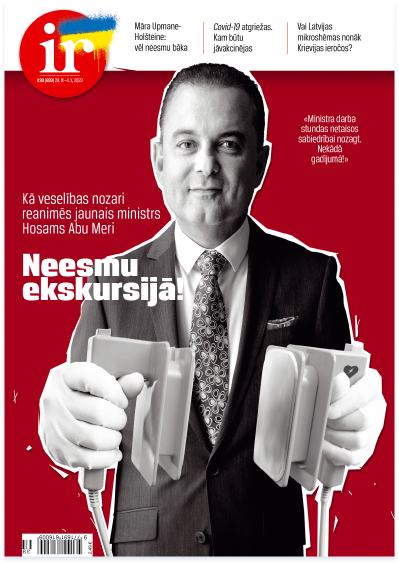
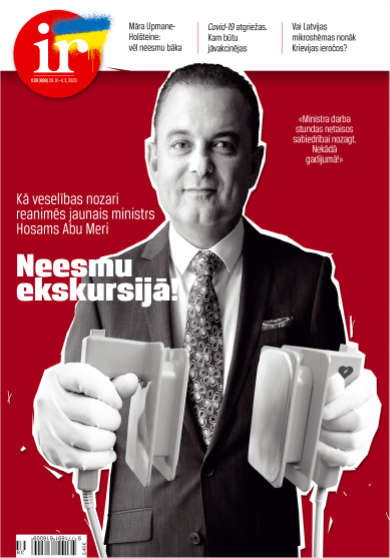
category and magazine pages layout update

diff --git a/category.html b/category.html
@@ -1,117 +1,240 @@
 <!doctype html>
 <html lang="en">
-  <head>
-    <meta charset="UTF-8" />
-    <link rel="icon" type="image/svg+xml" href="favicon.svg" />
-    <meta name="viewport" content="width=device-width, initial-scale=1.0" />
-
-    <title>IR žurnāls</title>
-    <script type="module" crossorigin src="main.js"></script>
-    <link rel="stylesheet" href="style.css" />
-    <script type="text/javascript">
-      window.document.addEventListener("alpine:init", () => {
-        let state = window.alpine.store("header");
-        state.showMenu = state.isScreenDesktop();
-        console.log(state.showMenu);
-      });
-    </script>
-  </head>
+  {{>head}}
 
   <body>
     <div id="app">
       {{>header}}
       <div
-        x-data="article"
-        class="container flex flex-col flex-wrap gap-y-4 px-4 lg:flex-row lg:gap-y-8">
-        <div class="article-header flex w-full flex-col gap-y-8 lg:ml-20">
-          <h1 class="title text-center">Kultūra</h1>
+        class="container items-start gap-8 px-4 lg:flex lg:flex-wrap lg:px-0">
+        <div class="w-full lg:gap-0 py-4 lg:py-0">
+          <h1 class="text-center">Kultūra</h1>
         </div>
-        <div
-          x-show="!dimToolbar"
-          x-transition.opacity.500ms
-          id="toolbar-container"
-          class="order-first py-4 lg:fixed lg:top-[35vh] lg:w-[64px]">
-          {{>socials-toolbar}}
+
+        <div class="flex gap-8">
+          <div
+            class="hero w-full border-t border-t-slate-100 shadow-md lg:px-0">
+            <figure
+              class="grid grid-flow-row gap-4 bg-white lg:grid-cols-8 lg:gap-8">
+              <img
+                src="./src/assets/img/temp/ir/home/Rectangle_85.jpg"
+                alt=""
+                class="h-full lg:w-auto w-full max-h-[370px] object-cover lg:col-span-4" />
+              <div
+                class="flex flex-col justify-center gap-y-8 px-4 lg:col-span-4 lg:px-0 lg:pr-8">
+                <h3 class="w-full pt-8 text-4xl leading-tight lg:pt-10">
+                  Dziedātāja Zanda Švēde iekaro Sanfrancisko
+                </h3>
+                <p class="flex-grow">
+                  Uzņēmīgā Zanda Švēde mūziku sāka mācīties tikai 25 gadu
+                  vecumā, nokļuva Sanfrancisko operā un nu jau otro sezonu ir
+                  Frankfurtes operas soliste. Kad vien apstākļi ļauj, viņa
+                  uzstājas Rīgā.
+                </p>
+                <div
+                  class="flex w-full items-center justify-between py-4 uppercase">
+                  <span class="hero__author pr-4 uppercase text-gray-500"
+                    >Laura Dumbere</span
+                  >
+                  {{>bookmark}}
+                </div>
+              </div>
+            </figure>
+          </div>
+          <aside
+            class="sidebar ml-auto hidden bg-slate-100 p-5 lg:block lg:max-w-[270px]">
+            <div class="articles-widget bg-slate-100">
+              <h2
+                class="mb-6 border-b border-gray-300 py-6 pt-2 text-center text-xl">
+                Lasītākie raksti
+              </h2>
+              <ul class="relative flex flex-col gap-y-8">
+                <li class="border-b border-gray-300 pb-6 last:border-none">
+                  <div class="meta flex gap-3 uppercase">
+                    <span class="counter"><b class="text-xl">1.</b></span>
+                    <span
+                      class="category flex items-center gap-3 whitespace-nowrap"
+                      >Viedoklis</span
+                    >
+                    <span
+                      class="author flex items-center gap-3 whitespace-nowrap before:mb-1 before:block before:h-1 before:w-1 before:rounded-lg before:bg-ir-red"
+                      >Mortens Hansens</span
+                    >
+                  </div>
+                  <h4 class="leading-7">
+                    Par bankām, lielveikaliem un tirgus ekonomiku
+                  </h4>
+                </li>
+                <li class="border-b border-gray-300 pb-6 last:border-none">
+                  <div class="meta flex gap-3 uppercase">
+                    <span class="counter"><b class="text-xl">2.</b></span
+                    ><span
+                      class="category flex items-center gap-3 whitespace-nowrap"
+                      >Speciāli IR</span
+                    ><span
+                      class="author flex items-center gap-3 whitespace-nowrap before:mb-1 before:block before:h-1 before:w-1 before:rounded-lg before:bg-ir-red"
+                      >guntis keisels</span
+                    >
+                  </div>
+                  <h4 class="leading-7">Sapņu komandas sastādītājs</h4>
+                </li>
+              </ul>
+            </div>
+          </aside>
         </div>
-        <div
-          class="article-content relative flex flex-col gap-10 pb-20 lg:ml-20 lg:max-w-[650px]">
-          {{>card-horizontal tag="Komentārs" title="Dace Rēķe, instagramā māca
-          latviešu valodu" excerpt="Šonedēļ starptautiskā Finanšu darījumu darba
+      </div>
+
+      <section id="cards-w-banner">
+        <div class="container gap-4 px-4 lg:flex lg:gap-8 lg:px-0 lg:pb-8">
+          {{>card tag="Komentārs" title="Dziedātāja Zanda Švēde iekaro
+          Sanfrancisko" excerpt="Šonedēļ starptautiskā Finanšu darījumu darba
           grupa (FATF) vērtē, cik sekmīgi Latvija apkaro naudas atmazgāšanu. Kas
           paveikts, lai neiekļūtu neuzticamo valstu pelēkajā sarakstā?"
-          author="Laura Dumbere"}}
-
+          author="Laura Dumbere"}} {{>card tag="Komentārs" excerpt="Šonedēļ
+          starptautiskā Finanšu darījumu darba grupa (FATF) vērtē, cik sekmīgi
+          Latvija apkaro naudas atmazgāšanu.." title="Galvenā naudas atmazg
+          lkewnkl lkwleknw en kefkeljh" author="Indra Sprance"}}
           <div
-            x-intersect="dimToolbar = true"
-            x-intersect:leave="dimToolbar = false"
-            class="related-articles mt-10 flex flex-col gap-y-6">
-            <h2>Saistītie raksti</h2>
-            {{>article-content-card title="Ko apdraud mežu izciršana?"
-            author="Jānis Saliņš" tag="Pasaulē" excerpt="Vai atļaut cirst
-            tievākus kokus, lai meža aprites ciklā īpašnieki varētu ietaupīt
-            aptuveni 20 gadus un valsts iekasētu papildu miljonus nodokļos? "}}
-            {{>article-content-card title="Ko apdraud mežu izciršana?"
-            author="Jānis Saliņš" tag="Pasaulē" excerpt="Vai atļaut cirst
-            tievākus kokus, lai meža aprites ciklā īpašnieki varētu ietaupīt
-            aptuveni 20 gadus un valsts iekasētu papildu miljonus nodokļos? "}}
-            {{>article-content-card title="Ko apdraud mežu izciršana?"
-            author="Jānis Saliņš" tag="Pasaulē" excerpt="Vai atļaut cirst
-            tievākus kokus, lai meža aprites ciklā īpašnieki varētu ietaupīt
-            aptuveni 20 gadus un valsts iekasētu papildu miljonus nodokļos? "}}
-            {{>article-content-card title="Ko apdraud mežu izciršana?"
-            author="Jānis Saliņš" tag="Pasaulē" excerpt="Vai atļaut cirst
-            tievākus kokus, lai meža aprites ciklā īpašnieki varētu ietaupīt
-            aptuveni 20 gadus un valsts iekasētu papildu miljonus nodokļos? "}}
+            class="ad-widget my-4 flex flex-col justify-between bg-white px-4 shadow-md lg:my-0 lg:max-w-[270px]">
+            <div class="flex w-full justify-between">
+              <span
+                class="relative uppercase before:absolute before:-left-4 before:bottom-0 before:top-0 before:h-5 before:w-[2px] before:bg-ir-red"
+                >Karikatūra</span
+              >
+            </div>
+            <figure class="flex flex-grow items-center">
+              <img src="./src/assets/img/temp/caricature.jpg" alt="" />
+            </figure>
+            <div class="flex py-4">
+              <div class="flex-grow">
+                <h3>Corona Kandinsky vienā vai divās rindās</h3>
+                <p class="font-serif uppercase">Ernests Kļaviņš</p>
+              </div>
+              <div>
+                <svg
+                  width="32"
+                  height="32"
+                  viewBox="0 0 32 32"
+                  fill="none"
+                  xmlns="http://www.w3.org/2000/svg">
+                  <path
+                    d="M22 12C23.6569 12 25 10.6569 25 9C25 7.34315 23.6569 6 22 6C20.3431 6 19 7.34315 19 9C19 10.6569 20.3431 12 22 12Z"
+                    stroke="#212225"
+                    stroke-linecap="round"
+                    stroke-linejoin="round" />
+                  <path
+                    d="M10 19C11.6569 19 13 17.6569 13 16C13 14.3431 11.6569 13 10 13C8.34315 13 7 14.3431 7 16C7 17.6569 8.34315 19 10 19Z"
+                    stroke="#212225"
+                    stroke-linecap="round"
+                    stroke-linejoin="round" />
+                  <path
+                    d="M22 26C23.6569 26 25 24.6569 25 23C25 21.3431 23.6569 20 22 20C20.3431 20 19 21.3431 19 23C19 24.6569 20.3431 26 22 26Z"
+                    stroke="#212225"
+                    stroke-linecap="round"
+                    stroke-linejoin="round" />
+                  <path
+                    d="M13 18L19 22"
+                    stroke="#212225"
+                    stroke-linecap="round"
+                    stroke-linejoin="round" />
+                  <path
+                    d="M19 10L13 14"
+                    stroke="#212225"
+                    stroke-linecap="round"
+                    stroke-linejoin="round" />
+                </svg>
+              </div>
+            </div>
           </div>
         </div>
-        <aside
-          class="sidebar ml-auto hidden bg-slate-100 p-5 lg:block lg:max-w-[270px]">
-          <div class="articles-widget bg-slate-100">
-            <h2
-              class="mb-6 border-b border-gray-300 py-6 pt-2 text-center text-xl">
-              Lasītākie raksti
-            </h2>
-            <ul class="relative flex flex-col gap-y-8">
-              <li class="border-b border-gray-300 pb-6 last:border-none">
-                <div class="meta flex gap-4 uppercase">
-                  <span class="counter"><b class="text-xl">1.</b></span
-                  ><span class="category">Viedoklis</span
-                  ><span class="author">Mortens Hansens</span>
-                </div>
-                <h4 class="leading-7">
-                  Par bankām, lielveikaliem un tirgus ekonomiku
-                </h4>
-              </li>
-              <li class="border-b border-gray-300 pb-6 last:border-none">
-                <div class="meta flex gap-4 uppercase">
-                  <span class="counter"><b class="text-xl">2.</b></span
-                  ><span class="category">Speciāli IR</span
-                  ><span class="author">guntis keisels</span>
-                </div>
-                <h4 class="leading-7">Sapņu komandas sastādītājs</h4>
-              </li>
-            </ul>
-          </div>
-        </aside>
-        <section id="cards-1/3">
+      </section>
+
+      <section class="container">
+        <div
+          class="container items-start gap-4 px-4 lg:flex lg:gap-8 lg:px-0 lg:pb-8">
           <div
-            class="container grid grid-flow-row gap-4 px-4 lg:grid-cols-3 lg:gap-8 lg:px-0 lg:py-8">
-            {{>card tag="Komentārs" title="Dziedātāja Zanda Švēde iekaro
-            Sanfrancisko" excerpt="Šonedēļ starptautiskā Finanšu darījumu darba
-            grupa (FATF) vērtē, cik sekmīgi Latvija apkaro naudas atmazgāšanu.
-            Kas paveikts, lai neiekļūtu neuzticamo valstu pelēkajā sarakstā?"
-            author="Laura Dumbere"}} {{>card tag="Komentārs" excerpt="Šonedēļ
-            starptautiskā Finanšu darījumu darba grupa (FATF) vērtē, cik sekmīgi
-            Latvija apkaro naudas atmazgāšanu.." title="Galvenā naudas atmazg
-            lkewnkl lkwleknw en kefkeljh" author="Indra Sprance"}} {{>card
-            tag="Komentārs" title="Dziedātāja Zanda Švēde iekaro Sanfrancisko"
+            class="related-articles flex w-full flex-col gap-y-6 lg:w-9/12">
+            {{>card-horizontal tag="Komentārs" title="Dace Rēķe, instagramā māca
+            latviešu valodu" excerpt="Šonedēļ starptautiskā Finanšu darījumu
+            darba grupa (FATF) vērtē, cik sekmīgi Latvija apkaro naudas
+            atmazgāšanu. Kas paveikts, lai neiekļūtu neuzticamo valstu pelēkajā
+            sarakstā?" author="Laura Dumbere"}} {{>card-horizontal
+            tag="Komentārs" title="Dace Rēķe, instagramā māca latviešu valodu"
             excerpt="Šonedēļ starptautiskā Finanšu darījumu darba grupa (FATF)
             vērtē, cik sekmīgi Latvija apkaro naudas atmazgāšanu. Kas paveikts,
             lai neiekļūtu neuzticamo valstu pelēkajā sarakstā?" author="Laura
-            Dumbere"}}
+            Dumbere"}} {{>card-horizontal tag="Komentārs" title="Dace Rēķe,
+            instagramā māca latviešu valodu" excerpt="Šonedēļ starptautiskā
+            Finanšu darījumu darba grupa (FATF) vērtē, cik sekmīgi Latvija
+            apkaro naudas atmazgāšanu. Kas paveikts, lai neiekļūtu neuzticamo
+            valstu pelēkajā sarakstā?" author="Laura Dumbere"}}
+            {{>card-horizontal tag="Komentārs" title="Dace Rēķe, instagramā māca
+            latviešu valodu" excerpt="Šonedēļ starptautiskā Finanšu darījumu
+            darba grupa (FATF) vērtē, cik sekmīgi Latvija apkaro naudas
+            atmazgāšanu. Kas paveikts, lai neiekļūtu neuzticamo valstu pelēkajā
+            sarakstā?" author="Laura Dumbere"}}
           </div>
-        </section>
-      </div>
+          <div class="ad-widget hiddne bg-slate-100 p-6 lg:visible">
+            <h2
+              class="mb-6 border-b border-gray-300 py-6 pt-2 text-center text-xl">
+              Reklāma
+            </h2>
+            <ul class="relative flex flex-col gap-y-8">
+              <li class="border-b border-gray-300 pb-6">
+                <div class="meta flex uppercase">
+                  <span class="counter"></span
+                  ><span class="category">Koncerts</span>
+                </div>
+                <h4 class="font-serif"><b>Grupa Jumprava.</b> XO Arēnā Rīga</h4>
+                <div class="meta flex uppercase">
+                  <span class="counter"></span
+                  ><span class="category">28. novembris</span>
+                </div>
+              </li>
+              <li class="border-b border-gray-300 pb-6">
+                <div class="meta flex uppercase">
+                  <span class="counter"></span
+                  ><span class="category">Koncerts</span>
+                </div>
+                <h4 class="font-serif">
+                  <b>Rīgas Gredzens VEF </b>Kultūras pilī
+                </h4>
+                <div class="meta flex uppercase">
+                  <span class="counter"></span
+                  ><span class="category">28. novembris</span>
+                </div>
+              </li>
+            </ul>
+          </div>
+        </div>
+      </section>
+      <section class="container">
+        <div
+          class="container items-start gap-4 px-4 lg:flex lg:gap-8 lg:px-0 lg:pb-8">
+          <div
+            class="related-articles flex w-full flex-col gap-y-6 lg:w-9/12">
+            {{>card-horizontal tag="Komentārs" title="Dace Rēķe, instagramā māca
+            latviešu valodu" excerpt="Šonedēļ starptautiskā Finanšu darījumu
+            darba grupa (FATF) vērtē, cik sekmīgi Latvija apkaro naudas
+            atmazgāšanu. Kas paveikts, lai neiekļūtu neuzticamo valstu pelēkajā
+            sarakstā?" author="Laura Dumbere"}} {{>card-horizontal
+            tag="Komentārs" title="Dace Rēķe, instagramā māca latviešu valodu"
+            excerpt="Šonedēļ starptautiskā Finanšu darījumu darba grupa (FATF)
+            vērtē, cik sekmīgi Latvija apkaro naudas atmazgāšanu. Kas paveikts,
+            lai neiekļūtu neuzticamo valstu pelēkajā sarakstā?" author="Laura
+            Dumbere"}} {{>card-horizontal tag="Komentārs" title="Dace Rēķe,
+            instagramā māca latviešu valodu" excerpt="Šonedēļ starptautiskā
+            Finanšu darījumu darba grupa (FATF) vērtē, cik sekmīgi Latvija
+            apkaro naudas atmazgāšanu. Kas paveikts, lai neiekļūtu neuzticamo
+            valstu pelēkajā sarakstā?" author="Laura Dumbere"}}
+            {{>card-horizontal tag="Komentārs" title="Dace Rēķe, instagramā māca
+            latviešu valodu" excerpt="Šonedēļ starptautiskā Finanšu darījumu
+            darba grupa (FATF) vērtē, cik sekmīgi Latvija apkaro naudas
+            atmazgāšanu. Kas paveikts, lai neiekļūtu neuzticamo valstu pelēkajā
+            sarakstā?" author="Laura Dumbere"}}
+          </div>
+        </div>
+      </section>
     </div>
     {{>footer}}
   </body>

diff --git a/magazine.html b/magazine.html
@@ -7,8 +7,8 @@
       {{>header}}
       <div
         class="container items-start gap-8 px-4 lg:flex lg:flex-wrap lg:px-0">
-        <div class="w-full lg:flex lg:justify-between">
-          <div class="flex items-center gap-x-3 uppercase before:-ml-4">
+        <div class="w-full flex flex-col lg:flex-row lg:justify-between gap-4 lg:gap-0 py-4 lg:py-0">
+          <div class="flex items-center justify-center gap-x-3 uppercase before:-ml-4">
             <span class="flex items-center gap-3 whitespace-nowrap"
               >Žurnāls</span
             >
@@ -28,7 +28,7 @@
               <img
                 src="./src/assets/img/temp/ir/home/Rectangle_80.jpg"
                 alt=""
-                class="h-full object-cover lg:col-span-3" />
+                class="h-full lg:w-auto w-full max-h-[370px] object-cover lg:col-span-3" />
               <div
                 class="flex flex-col justify-center gap-y-8 px-4 lg:col-span-5 lg:px-0 lg:pr-8">
                 <h3 class="w-full pt-8 text-4xl leading-tight lg:pt-10">

diff --git a/src/elements/sidebar-link.html b/src/elements/sidebar-link.html
@@ -1,6 +1,6 @@
 <a
   href=""
-  class="flex w-full flex-row items-center justify-end text-right font-serif text-ir-red underline-offset-2 hover:underline">
+  class="flex w-full flex-row items-center justify-center lg:justify-end text-right font-serif text-ir-red underline-offset-2 hover:underline">
   {{label}}
   <span class="arrow-right pl-3"
     ><svg
